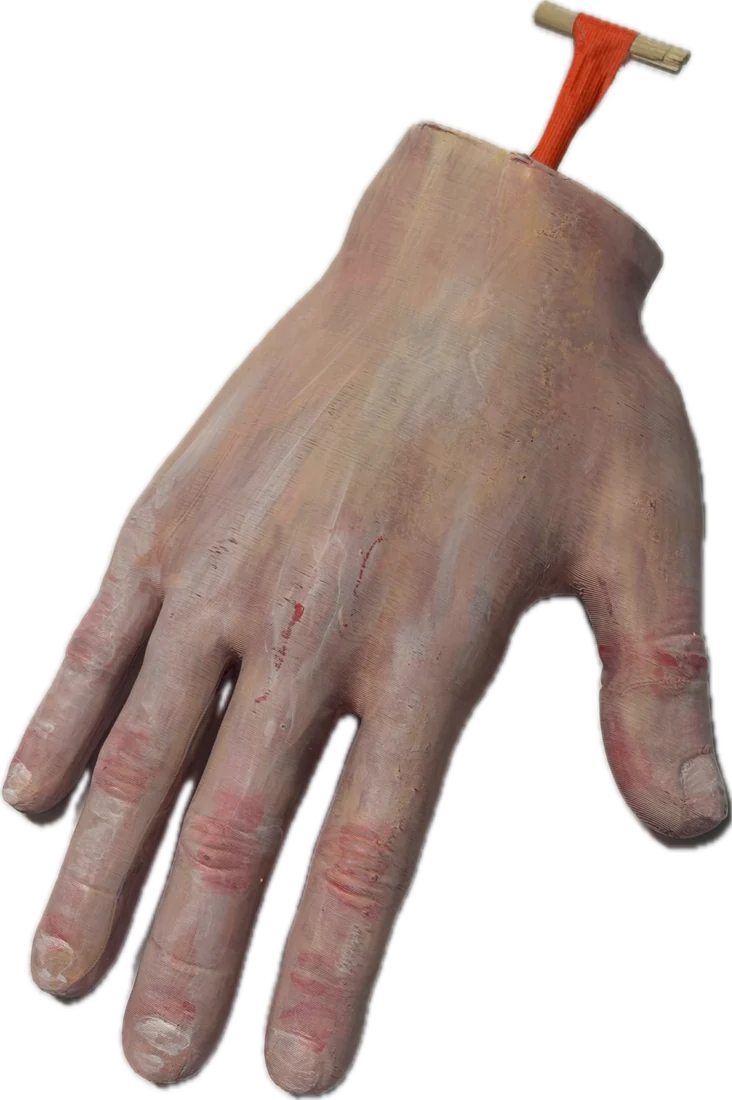
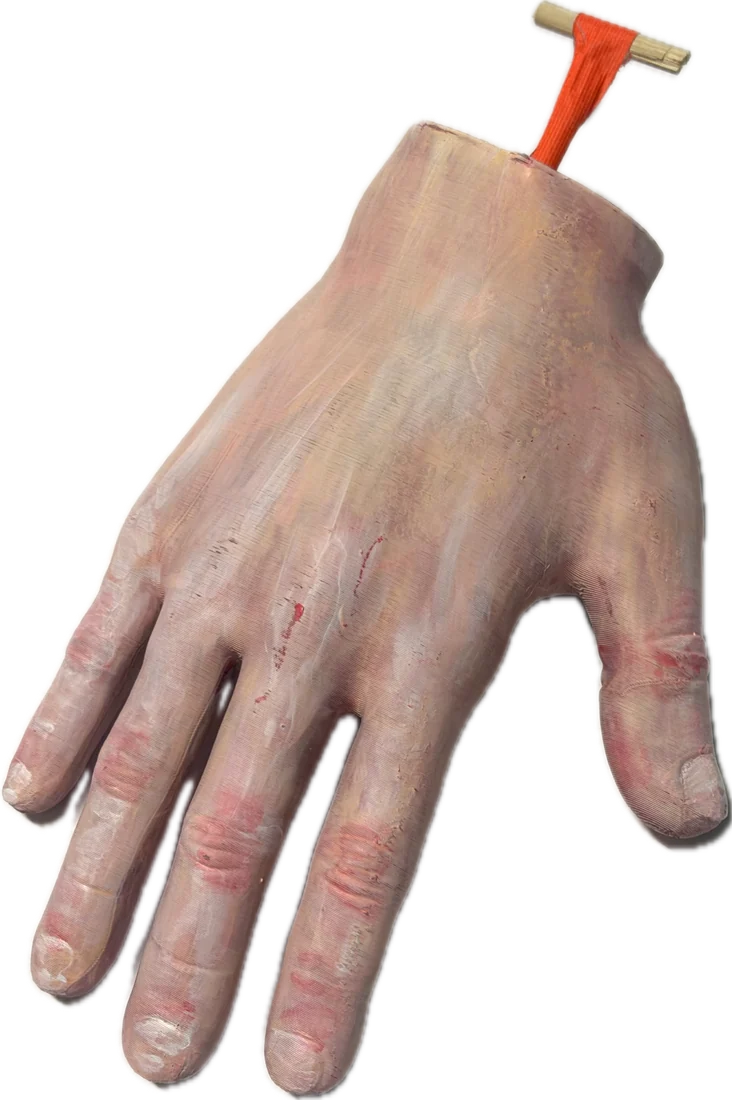
Projects: ADoaA - two low side sheets moved to the top middle of the column; updated hand prop images
Claude-Session: https://claude.ai/code/session_01JYKuCLNppnsomvLAQ2P3KS

diff --git a/project.html b/project.html
@@ -480,8 +480,8 @@ What is the dot product of the vector from us to Hill 2 and the vector from us t
         </article>
         <article class="ad-prop">
           <figure class="ad-prop-media ad-prop-pair">
-            <img src="web/adoaa/hand-a.webp" alt="Prosthetic hand, palm view, with a pull handle at the wrist" width="678" height="1100" loading="lazy" decoding="async">
-            <img src="web/adoaa/hand-b.webp" alt="Prosthetic hand, back view" width="732" height="1100" loading="lazy" decoding="async">
+            <img src="web/adoaa/hand-a.webp?v=2" alt="Prosthetic hand, palm view, with a pull handle at the wrist" width="678" height="1100" loading="lazy" decoding="async">
+            <img src="web/adoaa/hand-b.webp?v=2" alt="Prosthetic hand, back view" width="732" height="1100" loading="lazy" decoding="async">
           </figure>
           <p class="small-label">Prop 02</p>
           <h4>The Hand</h4>
@@ -937,7 +937,7 @@ What is the dot product of the vector from us to Hill 2 and the vector from us t
 
       // like the reference: a column of sheets rising out of the drawer
       // opening, dense just above the box and thinning toward the top,
-      // leaning slightly right; a few stray sheets drift down beside the box.
+      // leaning slightly right.
       // Positions are % of the stage; the drawer opening is at about (50, 66).
       const order = items.map((_, i) => i).sort(() => rnd() - .5);
       items.forEach((it, i) => {
@@ -945,8 +945,9 @@ What is the dot product of the vector from us to Hill 2 and the vector from us t
         const n = order.indexOf(i);
         if (n < 3) {
           // strays: low, beside and in front of the box
-          x = [33, 67, 61][n] + (rnd() - .5) * 4;
-          y = [74, 80, 66][n];
+          // two near the top middle of the column, one stray beside the box
+          x = [55, 47, 61][n] + (rnd() - .5) * 4;
+          y = [7, 12, 66][n];
           rx = 55 + rnd() * 20; ry = (rnd() - .5) * 60; rz = (rnd() - .5) * 70; s = .95;
         } else {
           const t = (n - 3 + rnd() * .7) / (items.length - 3);
